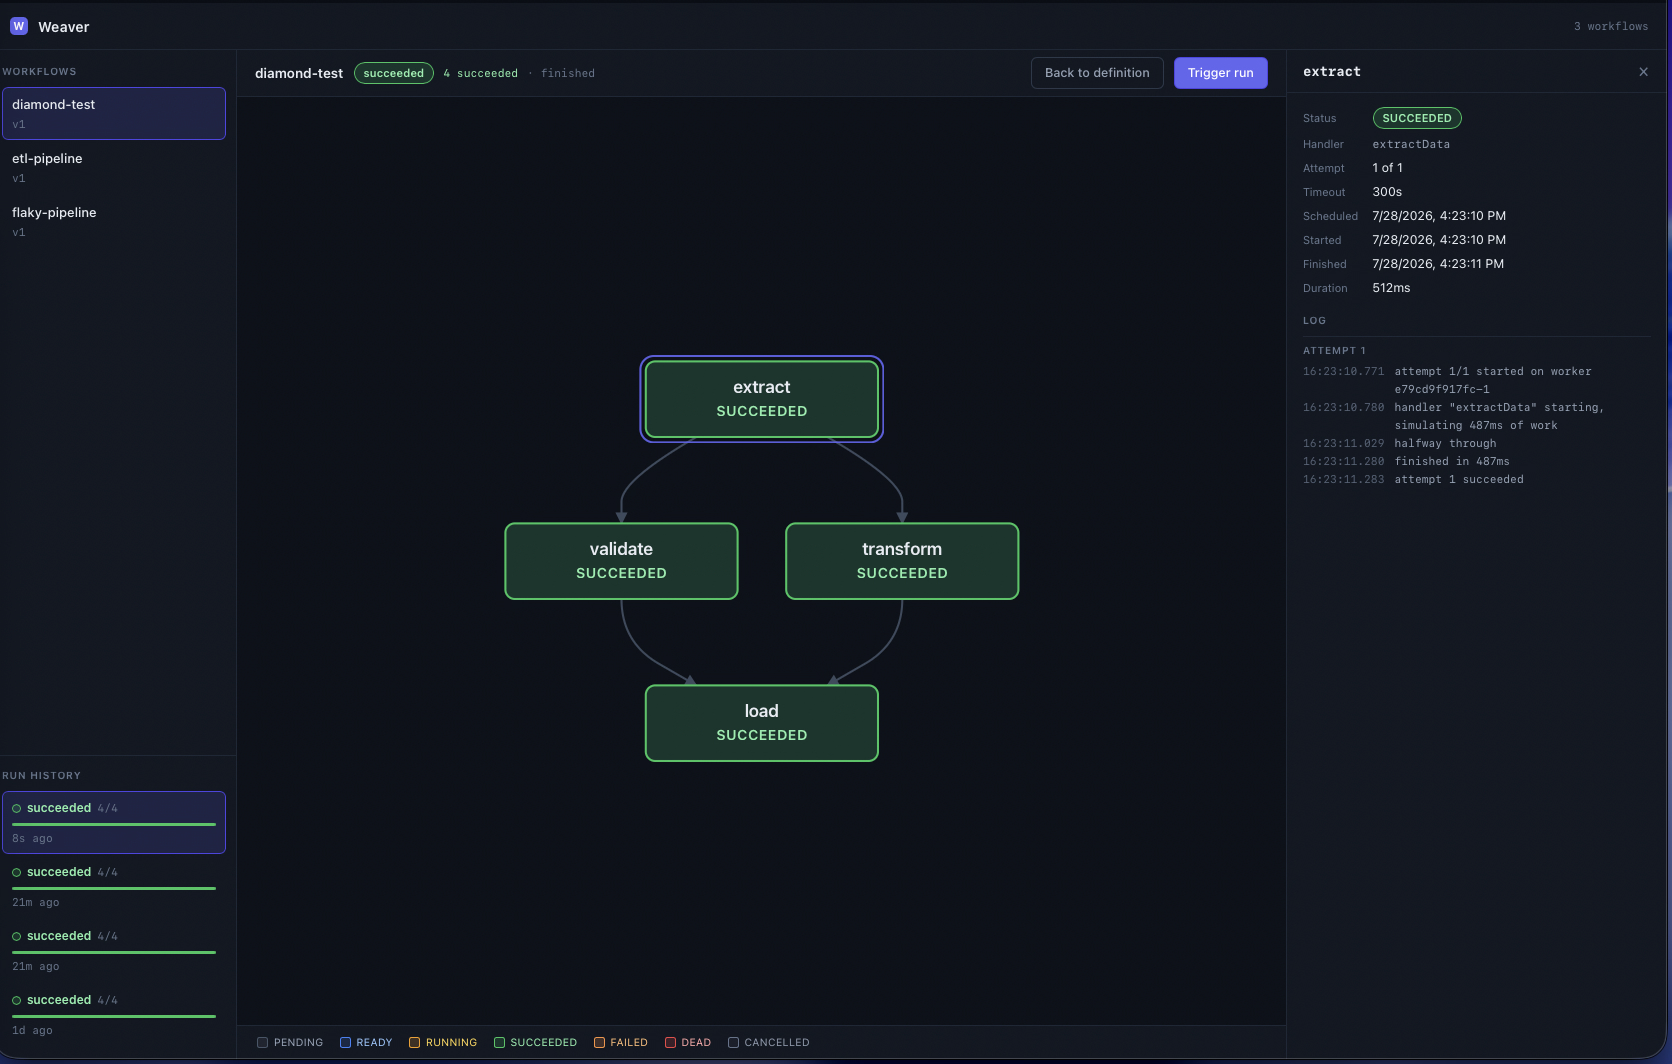
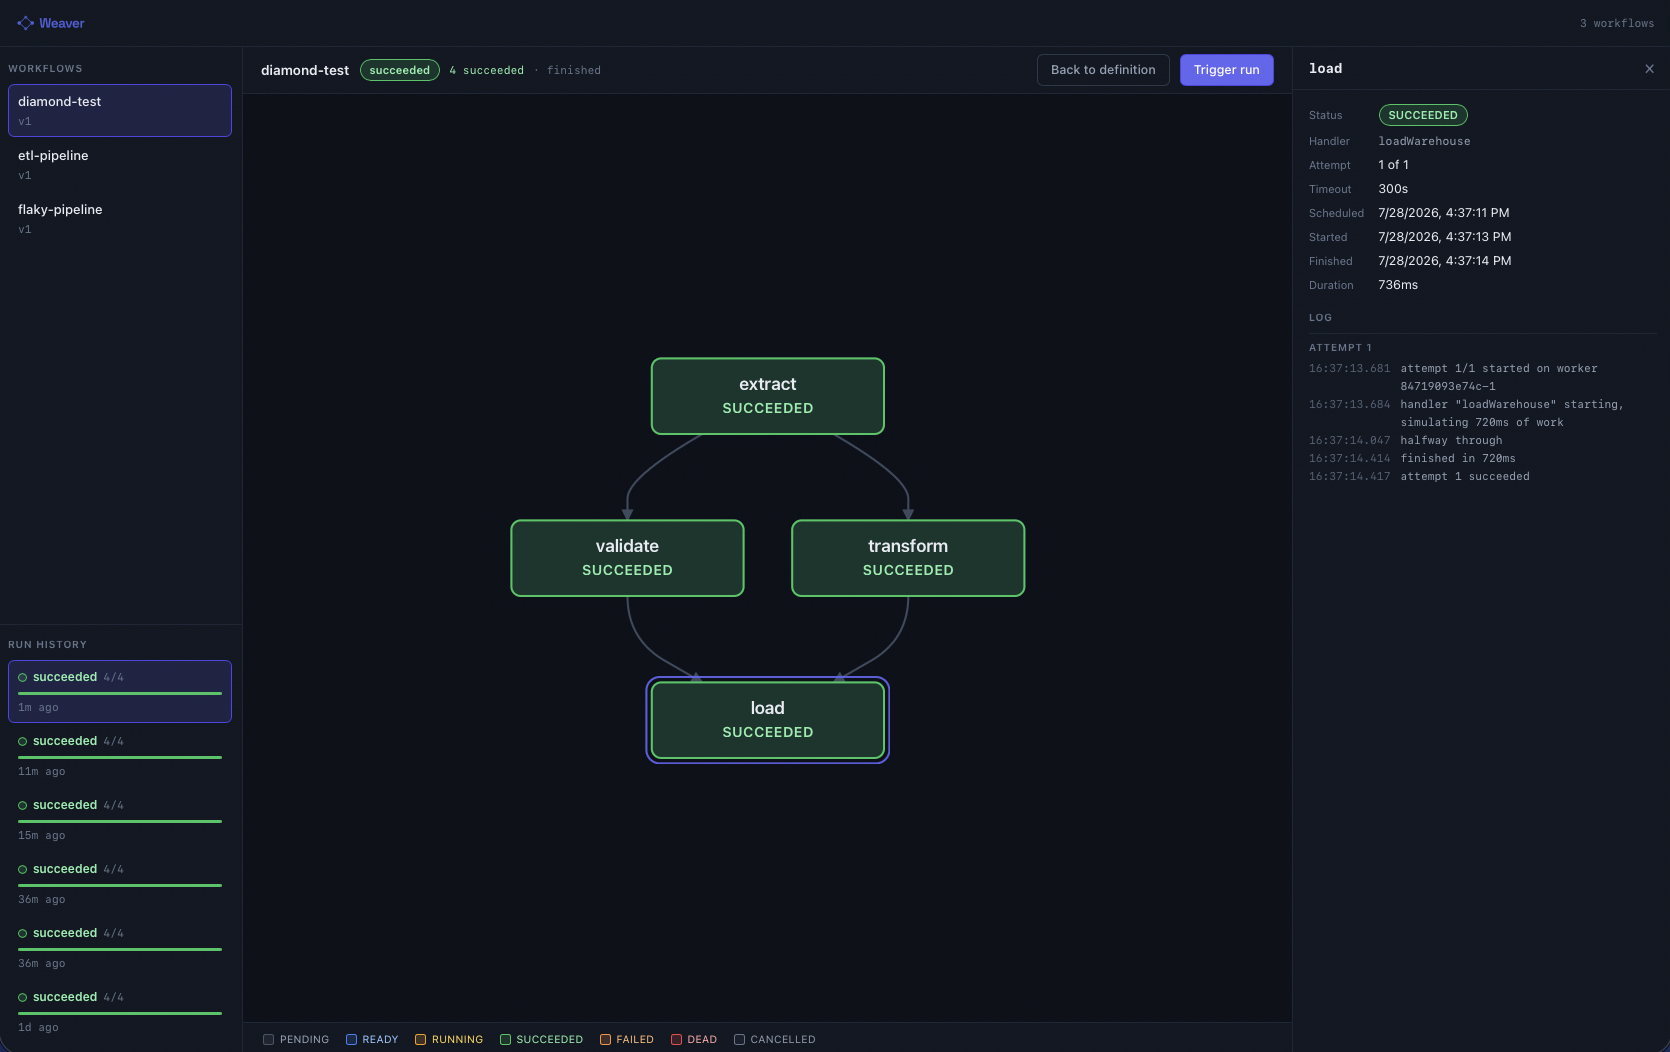
Updated UI to use weaver wordmark and created new screenshot

diff --git a/web/dist/bundle.js b/web/dist/bundle.js
@@ -23659,6 +23659,9 @@
     muted: { color: color.textFaint, padding: "0 0 8px" }
   };
 
+  // ../docs/branding/weaver-wordmark.png
+  var weaver_wordmark_default = "/dist/weaver-wordmark-NRWJHXXQ.png";
+
   // src/main.jsx
   var POLL_MS = 1e3;
   async function getJSON(path, { signal, method = "GET" } = {}) {
@@ -23807,7 +23810,7 @@
     }
     const showingRun = Boolean(runId);
     const tasks = showingRun ? runTasks : detail?.tasks;
-    return /* @__PURE__ */ import_react3.default.createElement("div", { style: styles3.page }, /* @__PURE__ */ import_react3.default.createElement("header", { style: styles3.header }, /* @__PURE__ */ import_react3.default.createElement("span", { style: styles3.logo }, "W"), /* @__PURE__ */ import_react3.default.createElement("h1", { style: styles3.title }, "Weaver"), /* @__PURE__ */ import_react3.default.createElement("span", { style: styles3.spacer }), /* @__PURE__ */ import_react3.default.createElement("span", { style: styles3.wfMeta }, workflows.length, " workflow", workflows.length === 1 ? "" : "s")), error && /* @__PURE__ */ import_react3.default.createElement("div", { style: styles3.errorBar }, error, /* @__PURE__ */ import_react3.default.createElement("button", { onClick: () => setError(null), style: styles3.dismiss }, "dismiss")), /* @__PURE__ */ import_react3.default.createElement("div", { style: styles3.body }, /* @__PURE__ */ import_react3.default.createElement("nav", { style: styles3.sidebar }, /* @__PURE__ */ import_react3.default.createElement("section", { style: styles3.sidebarScroll }, /* @__PURE__ */ import_react3.default.createElement("h2", { style: styles3.sidebarTitle }, "Workflows"), workflows.length === 0 && /* @__PURE__ */ import_react3.default.createElement("p", { style: styles3.hint }, "No workflows registered. POST one to ", /* @__PURE__ */ import_react3.default.createElement("code", null, "/api/workflows"), "."), /* @__PURE__ */ import_react3.default.createElement("ul", { style: styles3.list }, workflows.map((wf) => /* @__PURE__ */ import_react3.default.createElement("li", { key: wf.id }, /* @__PURE__ */ import_react3.default.createElement(
+    return /* @__PURE__ */ import_react3.default.createElement("div", { style: styles3.page }, /* @__PURE__ */ import_react3.default.createElement("header", { style: styles3.header }, /* @__PURE__ */ import_react3.default.createElement("h1", { style: styles3.title }, /* @__PURE__ */ import_react3.default.createElement("img", { src: weaver_wordmark_default, alt: "Weaver", style: styles3.wordmark })), /* @__PURE__ */ import_react3.default.createElement("span", { style: styles3.spacer }), /* @__PURE__ */ import_react3.default.createElement("span", { style: styles3.wfMeta }, workflows.length, " workflow", workflows.length === 1 ? "" : "s")), error && /* @__PURE__ */ import_react3.default.createElement("div", { style: styles3.errorBar }, error, /* @__PURE__ */ import_react3.default.createElement("button", { onClick: () => setError(null), style: styles3.dismiss }, "dismiss")), /* @__PURE__ */ import_react3.default.createElement("div", { style: styles3.body }, /* @__PURE__ */ import_react3.default.createElement("nav", { style: styles3.sidebar }, /* @__PURE__ */ import_react3.default.createElement("section", { style: styles3.sidebarScroll }, /* @__PURE__ */ import_react3.default.createElement("h2", { style: styles3.sidebarTitle }, "Workflows"), workflows.length === 0 && /* @__PURE__ */ import_react3.default.createElement("p", { style: styles3.hint }, "No workflows registered. POST one to ", /* @__PURE__ */ import_react3.default.createElement("code", null, "/api/workflows"), "."), /* @__PURE__ */ import_react3.default.createElement("ul", { style: styles3.list }, workflows.map((wf) => /* @__PURE__ */ import_react3.default.createElement("li", { key: wf.id }, /* @__PURE__ */ import_react3.default.createElement(
       "button",
       {
         onClick: () => setSelectedId(wf.id),
@@ -23951,26 +23954,14 @@
       borderBottom: `1px solid ${color.border}`,
       background: color.surface
     },
-    title: {
-      margin: 0,
-      fontSize: 14,
-      fontWeight: 600,
-      letterSpacing: "0.02em",
-      color: color.text
-    },
-    // A small mark so the header is not just a word in the corner.
-    logo: {
-      width: 18,
-      height: 18,
-      borderRadius: 5,
-      background: color.accent,
-      display: "flex",
-      alignItems: "center",
-      justifyContent: "center",
-      fontSize: 11,
-      fontWeight: 700,
-      color: "#fff"
-    },
+    // The h1 is now only a wrapper for the image, so it carries no type styling of
+    // its own; flex kills the inline-image baseline gap that would otherwise push
+    // the header a few pixels taller than its siblings.
+    title: { margin: 0, display: "flex", alignItems: "center" },
+    // Sized by height so the header row stays fixed no matter what the asset's
+    // aspect ratio is; width follows from it. The source is 1200x340 with generous
+    // transparent padding, so the visible mark is smaller than this box implies.
+    wordmark: { height: 30, width: "auto", display: "block" },
     errorBar: {
       display: "flex",
       alignItems: "center",

diff --git a/web/src/main.jsx b/web/src/main.jsx
@@ -5,6 +5,13 @@ import { TaskPanel } from "./TaskPanel.jsx";
 import { breakdown, countByStatus, isRunFinished, statusColors } from "./status.js";
 import { color, font, shared } from "./theme.js";
 
+// Imported rather than referenced by path, and imported from docs/branding rather
+// than from a copy inside web/, so the wordmark has exactly one source in the repo:
+// the same file the README shows. esbuild's `file` loader (see package.json) copies
+// it into dist/ with a content hash in the name and resolves this import to its
+// public URL, which is the other half of what a bundler does beyond JS.
+import wordmarkUrl from "../../docs/branding/weaver-wordmark.png";
+
 // The UI is a read layer over the database and nothing more. It picks a workflow,
 // draws its DAG, triggers runs, watches them, and reads back what each task did.
 // Every guarantee that matters (no double execution, retries, dead worker recovery)
@@ -244,8 +251,13 @@ function App() {
 	return (
 		<div style={styles.page}>
 			<header style={styles.header}>
-				<span style={styles.logo}>W</span>
-				<h1 style={styles.title}>Weaver</h1>
+				{/* The wordmark carries the product name, so it stays inside the h1:
+				    the heading level is what a screen reader announces, and the alt
+				    text is what it reads out. An <img> on its own would leave the page
+				    with no heading at all. */}
+				<h1 style={styles.title}>
+					<img src={wordmarkUrl} alt="Weaver" style={styles.wordmark} />
+				</h1>
 				<span style={styles.spacer} />
 				<span style={styles.wfMeta}>
 					{workflows.length} workflow{workflows.length === 1 ? "" : "s"}
@@ -532,26 +544,14 @@ const styles = {
 		borderBottom: `1px solid ${color.border}`,
 		background: color.surface,
 	},
-	title: {
-		margin: 0,
-		fontSize: 14,
-		fontWeight: 600,
-		letterSpacing: "0.02em",
-		color: color.text,
-	},
-	// A small mark so the header is not just a word in the corner.
-	logo: {
-		width: 18,
-		height: 18,
-		borderRadius: 5,
-		background: color.accent,
-		display: "flex",
-		alignItems: "center",
-		justifyContent: "center",
-		fontSize: 11,
-		fontWeight: 700,
-		color: "#fff",
-	},
+	// The h1 is now only a wrapper for the image, so it carries no type styling of
+	// its own; flex kills the inline-image baseline gap that would otherwise push
+	// the header a few pixels taller than its siblings.
+	title: { margin: 0, display: "flex", alignItems: "center" },
+	// Sized by height so the header row stays fixed no matter what the asset's
+	// aspect ratio is; width follows from it. The source is 1200x340 with generous
+	// transparent padding, so the visible mark is smaller than this box implies.
+	wordmark: { height: 30, width: "auto", display: "block" },
 	errorBar: {
 		display: "flex",
 		alignItems: "center",

diff --git a/README.md b/README.md
@@ -427,6 +427,14 @@ Both commands bundle `src/main.jsx`, resolving imports and transforming JSX into
 `dist/bundle.js`, which `index.html` loads. `npm run dev` only rebuilds the bundle; it
 does not reload the browser, so refresh to see changes.
 
+They also handle one non-JS import. The header wordmark is `import`ed straight from
+`docs/branding/`, and the `--loader:.png=file` flag tells esbuild to copy that file
+into `dist/` under a content-hashed name and resolve the import to its URL
+(`--public-path=/dist`, which is where the Go file server exposes it). So the image
+has one source in the repo, the same file the README shows, rather than a second copy
+living under `web/`. Emitting assets like this is the other half of what a bundler
+does, beyond resolving and transforming JavaScript.
+
 Colours and spacing come from `web/src/theme.js`, and the task state palette from
 `web/src/status.js`. Those two files are the whole design system; components import
 from them rather than writing literal colours.
@@ -681,10 +689,12 @@ visible on a browser refresh with no Go rebuild and no image rebuild.
 **The cost:** the binary is no longer self-contained; it needs `web/` next to it. This
 is the decision most likely to be worth reversing once the UI stops changing hourly.
 
-### `web/dist/bundle.js` is committed
+### `web/dist/` is committed
 
 Committing build output is normally a smell. It is here so a fresh clone plus
 `docker compose up --build` produces a working UI with no Node toolchain involved.
+That covers `bundle.js` and the hashed copy of the wordmark esbuild emits beside it;
+both are build products, and both have to be present for the page to render.
 
 **The cost:** every frontend change produces a large, unreadable diff, and the
 committed artifact can silently drift from the source that supposedly produced it.
